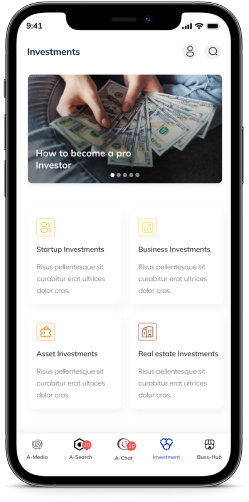
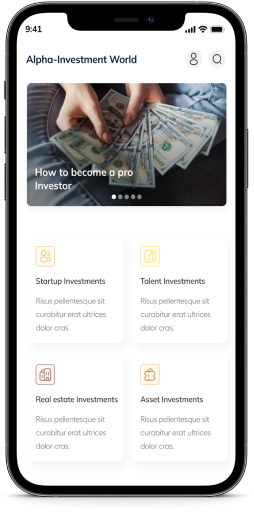
update styleing and text

diff --git a/components/Sections/GridPage.vue b/components/Sections/GridPage.vue
@@ -1,5 +1,5 @@
 <template>
-  <div class="bg-blue-50/60 py-[5.3rem]  w-full">
+  <div class="bg-blue-50/60 py-[5.3rem] w-full">
     <div class="">
       <!-- Header -->
       <Flex :level="1">
@@ -9,23 +9,23 @@
       </Flex>
     </div>
     <!-- Desktop Grid -->
-    <Grid class=" hidden lg:grid gap-8">
-      <div class="w-full " v-for="(data, index) in gridDataMobile">
-        <div class=" h-full flex flex-col items justify-start items-start">
+    <Grid class="hidden lg:grid gap-8">
+      <div class="w-full" v-for="(data, index) in gridDataMobile">
+        <div class="h-full flex flex-col items justify-start items-start">
           <Flex
             :level="1"
-            :class="data==gridDataMobile[2]?'basis-3/4':''"
-            class=" basis-2/3 relative px-[6rem] py-[2rem] items-start justify-start rounded-xl bg-indigo-400/60"
+            
+            class="basis-2/3 relative px-[6rem] py-[2rem]  items-start justify-start rounded-xl bg-indigo-400/60"
           >
             <img
-              class=" items-start justify-start bottom-0 "
+              class="items-start justify-start bottom-0"
               :src="data.image"
               alt=""
             />
           </Flex>
           <div
             :level="2"
-            class=" flex gap-4 flex-col items-start justify-start pb-2 pt-4"
+            class="flex gap-4 flex-col items-start justify-start pb-2 pt-4"
           >
             <h2 class="text-left text-2xl font-bold">
               {{ data.header }}
@@ -42,11 +42,11 @@
           </div>
         </div>
 
-    <!-- Desktop Modals slider -->
-        
+        <!-- Desktop Modals slider -->
+
         <teleport to="body">
           <div
-            v-if="modalDisplay ==data.image"
+            v-if="modalDisplay == data.image"
             class="fixed z-[1006] modal pt-6 bg-black/50 flex items-center justify-center h-screen w-screen"
           >
             <swiper
@@ -55,7 +55,7 @@
               :scrollbar="{ draggable: true }"
               :navigation="true"
               :modules="nav"
-              class="w-full lg:hidden mx-auto display flex items-center  justify-center"
+              class="w-full lg:hidden mx-auto display flex items-center justify-center"
             >
               <swiper-slide
                 v-for="content in gridDataMobile"
@@ -69,7 +69,7 @@
                 </p>
                 <Flex :level="2" class="w-[80%] gap-4">
                   <div
-                    class=" h-[60vh] py-4 overflow-scroll flex flex-col items-center justify-center w-[80%] bg-white pt-6 rounded-2xl"
+                    class="h-[60vh] py-4 overflow-scroll flex flex-col items-center justify-center w-[80%] bg-white pt-6 rounded-2xl"
                   >
                     <img :src="content.image" class="max-w-[11rem]" alt="" />
                     <div class="w-[80%]">
@@ -109,19 +109,20 @@
         >
           <Flex :level="2" class="w-[80%] gap-4">
             <div
-              class="min-h-3/5  bg-indigo-400/60 flex justify-center w-[80%] py-2 rounded-2xl"
+              class="min-h-3/5 bg-indigo-400/60 flex justify-center w-[80%] py-2 rounded-2xl"
             >
-              <img
-                :src="data.image"
-                class=" "
-                alt=""
-              />
+              <img :src="data.image" class=" " alt="" />
             </div>
             <div class="w-[80%]">
               <Flex :level="2" class="mx-auto">
-                <h2 class="text-base text-left font-semibold">{{ data.header }}</h2>
+                <h2 class="text-base text-left font-semibold">
+                  {{ data.header }}
+                </h2>
 
-                <ExpandableContentMobile :content="data.text" :visible-lines="6" />
+                <ExpandableContentMobile
+                  :content="data.text"
+                  :visible-lines="6"
+                />
               </Flex>
             </div>
           </Flex>
@@ -149,15 +150,18 @@ const gridData = [
   {
     text: "Have fun with audio comments on a social media platform that promotes interesting content for free.\
                     Time to build a loyal community and gain popularity quickly with just a few posts",
-
     image: "/images/Alphamedia.png",
     header: "AlphaMedia ",
   },
   {
     text: "Introducing Swipe & Video Meet with your Future - the ultimate platform for instantly meeting strangers who share your interests for either dating or business networking. Whether you're...",
-
     image: "/images/Alphameet.png",
     header: "AlphaMeet",
+  },
+  {
+    text: "You can now invest in start-ups, Talented individuals, Assets and Real Estate. Our unique concept allows you make large scale and small scale investments alongside many other investors.",
+    image: "/images/Alpha-invest.png",
+    header: "Alpha Investment app",
   },
   {
     text: "A business hub and marketplace, where you can find everything you need. Our platform allows users to list themselves as vendors and connect with potential customers to sell their products or deliver...",
@@ -165,56 +169,61 @@ const gridData = [
     header: "Alpha Business",
   },
   {
-    text: "The ultimate hub for both investors and investment candidates seeking a wide range of opportunities. Our platform offers a plethora of investment options, including but not limited to real estate... ",
-    image: "/images/Alpha-invest.png",
-    header: "Alpha Investment app",
-  },
-  {
-    text: "An advanced messaging platform, where you can take control of your text and picture messages like never before. With our platform, you have the option to restrict screenshots, saving, copying, and...",
-
+    text: "An advanced messaging platform, where you can take control of your text and picture messages like never before. With our platform, you have the option to restrict screenshots, saving, copying, and forwarding of messages you send, giving you complete control over your conversations"
++
+"In addition, our platform offers you the ability to edit sent messages and unsend a message without any notifications, allowing you to communicate with confidence and peace of mind." +
+"Our messaging platform is also the most secure on the market, so you can feel confident that your conversations are always protected. Join us today to experience messaging like never before,",
     image: "/images/Alpha-chat.png",
     header: "Alpha Chat",
   },
   {
-    text: "Discover a digital wallet that stands out from the rest - one that allows you to save both in cash and crypto, make digital payments, and earn monthly interest rates that surpass those offered by traditional...",
+    text: "More than just a wallet with an aim to become your own personal banky",
+    image: "/images/Alpha-wallet.png",
+    header: "Alpha Digital wallet",
+  },
+  {
+    text: "More than just a wallet with an aim to become your own personal banky",
     image: "/images/Alpha-wallet.png",
     header: "Alpha Digital wallet",
   },
 ];
 const gridDataMobile = [
   {
-    text: "Have fun with audio comments on a social media platform that promotes interesting content for free.\
-                    Time to build a loyal community and gain popularity quickly with just a few posts",
-
+    text: "Have fun with audio comments on a social media platform that promotes interesting contents for free. Time to build a loyal community and gain popularity quickly then turn your talent, creativity and love for social media into a company that pays you on AlphaWorld",
     image: "/images/Alphamedia.png",
     header: "AlphaMedia ",
   },
   {
-    text: "Introducing Swipe & Video Meet with your Future - the ultimate platform for instantly meeting strangers who share your interests for either dating or business networking.Whether you're looking for your next business partner, investor, or lover, our innovative platform allows you to swipe through potential matches and connect via video in seconds. Say goodbye to endless scrolling and messaging - with Swipe & Video Meet with your Future, your perfect match is just a few swipes away.",
+    text: "Introducing Swipe & Video Meet with your Future - the ultimate platform for instantly meeting strangers who share your interests for either dating or business networking. Whether you're",
 
     image: "/images/Alphameet.png",
     header: "AlphaMeet",
   },
   {
-    text: "A business hub and marketplace, where you can find everything you need. Our platform allows users to list themselves as vendors and connect with potential customers to sell their products or deliver services through our app. We also offer the opportunity for talents to list themselves and find recruiters, professionals to connect with HRs and companies, and job seekers to find job opportunities that are listed on our app. Additionally, you can book celebrities and access a wide range of products and services. Join our community today and find everything you need, including celebrities, professionals, service providers, talents, products, and much more.",
-    image: "/images/Alpha-business-2.png",
+    text: "You can now invest in start-ups, Talented individuals, Assets and Real Estate. Our unique concept allows you make large scale and small scale investments alongside many other investors. ",
+    image: "/images/Alpha-invest.png",
+    header: "Alpha Investment World",
+  },
+  {
+    text: "Here you can make yourself a business and find businesses, buy and sell, hire professionals from every field, hire talents, get hired as a service provider, get hired as an individual with a talent, rent apartments, and much more.",
+    image: "/images/Alpha-business.png",
     header: "Alpha Business Hub",
   },
   {
-    text: "The ultimate hub for both investors and investment candidates seeking a wide range of opportunities. Our platform offers a plethora of investment options, including but not limited to real estate, assets, startups, cryptocurrencies, and auctions. We strive to provide a comprehensive and all-encompassing platform for our users. Whether you are an investor looking to expand your portfolio or a candidate seeking investment opportunities, we have got you covered. With our user-friendly interface and unmatched expertise in the investment industry, we are committed to delivering the best possible experience to all our users. Get ready to take the first step towards unlocking a world of investment possibilities. ",
-    image: "/images/Alpha-invest.png",
-    header: "Alpha Investment World",
+    text: "Payments are simplified to just a click on AlphaPay",
+    image: "/images/Alpha-pay.png",
+    header: "AlphaPay",
+  },
+  {
+    text: "More than just a wallet with an aim to become your own personal bank",
+    image: "/images/Alpha-wallet.png",
+    header: "Alpha Digital wallet",
   },
   {
     text: "An advanced messaging platform, where you can take control of your text and picture messages like never before. With our platform, you have the option to restrict screenshots, saving, copying, and forwarding of messages you send, giving you complete control over your conversations.In addition, our platform offers you the ability to edit sent messages and unsend a message without any notifications, allowing you to communicate with confidence and peace of mind.Our messaging platform is also the most secure on the market, so you can feel confident that your conversations are always protected. Join us today to experience messaging like never before.",
 
     image: "/images/Alpha-chat.png",
     header: "Alpha Chat",
-  },
-  {
-    text: "The ultimate financial management tool that combines traditional and digital banking services in one place! Our innovative platform allows you to effortlessly make and receive payments in both cash and cryptocurrency, transfer funds, pay bills, purchase airtime, data, and other digital goods using a variety of local and global payment methods. With Alpha Digital Wallet, managing your finances has never been easier. Our user-friendly interface makes it simple for you to keep track of all your transactions and account balances, and our advanced security measures ensure that your data and funds are always protected. But that's not all - by saving your money in AlphaWallets, you can enjoy higher returns than you would with a regular savings account in a bank. Our cutting-edge technology and financial expertise allow us to offer you the best possible return on your investment, without any of the hassle or risks of traditional banking. So why wait? Sign up for Alpha Digital Wallet today and start taking control of your finances like never before!",
-    image: "/images/Alpha-wallet.png",
-    header: "Alpha Digital wallet",
   },
 ];
 const visibleLines = 4;
@@ -245,16 +254,16 @@ const closeModal = () => {
 .content-full {
   max-height: calc(24px * v-bind(visibleLines));
 }
-.swiper-button-prev{
-  color:black;
+.swiper-button-prev {
+  color: black;
   background-color: black;
 }
-.swiper-button-next{
-  color:black;
+.swiper-button-next {
+  color: black;
   background-color: black;
 }
-.swiper-button-prev{
-  color:black;
+.swiper-button-prev {
+  color: black;
   background-color: black;
 }
 </style>

diff --git a/components/Sections/Connect.vue b/components/Sections/Connect.vue
@@ -58,8 +58,8 @@
               digital
               <span class="text-blue-800 capitalize]"> needs </span>
             </h4>
-            <div class="">
-              <p class="hidden lg:block">
+            <div class="flex flex-col">
+              <p class="hidden text-lg lg:block">
                 AlphaWorld is a secure all-in-one mobile app which offers
                 multiple features ranging from:
               </p>
@@ -122,8 +122,10 @@
 
 <script setup lang="ts">
 const space = "<br>";
+const textttt= `AlphaWorld is a secure all-in-one easy to use mobile app which provides multiple solutions with features ranging from:
+ `
 const text =
-  "A Social Media with audio comments & 5 Star ratings rather than likes, Video-Meet for Love & Business Networking instead of chats on dating apps, Business-Hub for all types of professionals, talents, investors & services, Marketplace for all types of Vendors & products, Secure Messaging platform, Advanced search engine,  Data Wallet which allows users sell their data or erase it from the apps database, Digital Wallet which gives users higher interest rates on savings, Multiple shared economy business models, and much more" +
+  " A Social Media with audio comments & 5 Star ratings rather than likes, Video-Meet for Love & Business Networking instead of chats on dating apps, Business-Hub for all types of professionals, talents, investors & services, Marketplace for all types of Vendors & products, Secure Messaging platform, Advanced search engine,  Data Wallet which allows users sell their data or erase it from the apps database, Digital Wallet which gives users higher interest rates on savings, Multiple shared economy business models, and much more" +
   "<br>" +
   "<br>" +
   "Aimed to solve multiple digital problems across several industries in one easy to use app, what sets AlphaWorld apart from the competition is its uncompromising focus on user privacy and security. While other apps exploit your data for profit, AlphaWorld puts users back in control by giving them the power to share and earn, or erase their data from its database." +

diff --git a/components/ExpandableContent.vue b/components/ExpandableContent.vue
@@ -9,7 +9,7 @@
       mode="out-in"
     >
       <div v-if="!isExpanded" class="block-content__preview">
-        <p ref="preview" v-html="content" />
+        <p class="text-[#1E1E1E]" ref="preview" v-html="content" />
       </div>
       <p
         v-else
@@ -94,7 +94,7 @@ export default defineComponent({
   flex-direction: column;
   align-items: flex-start;
   gap: 8px;
-  padding: 24px 20px;
+  padding: 0 20px;
   background-color: transparent;
   border-radius: 8px;
 }
@@ -102,7 +102,7 @@ export default defineComponent({
   /* default line-height is 24px */
   max-height: calc(24px * v-bind(visibleLines));
   overflow: hidden;
-  color: black;
+ 
 }
 .block-content__paragraph {
   color: black;
